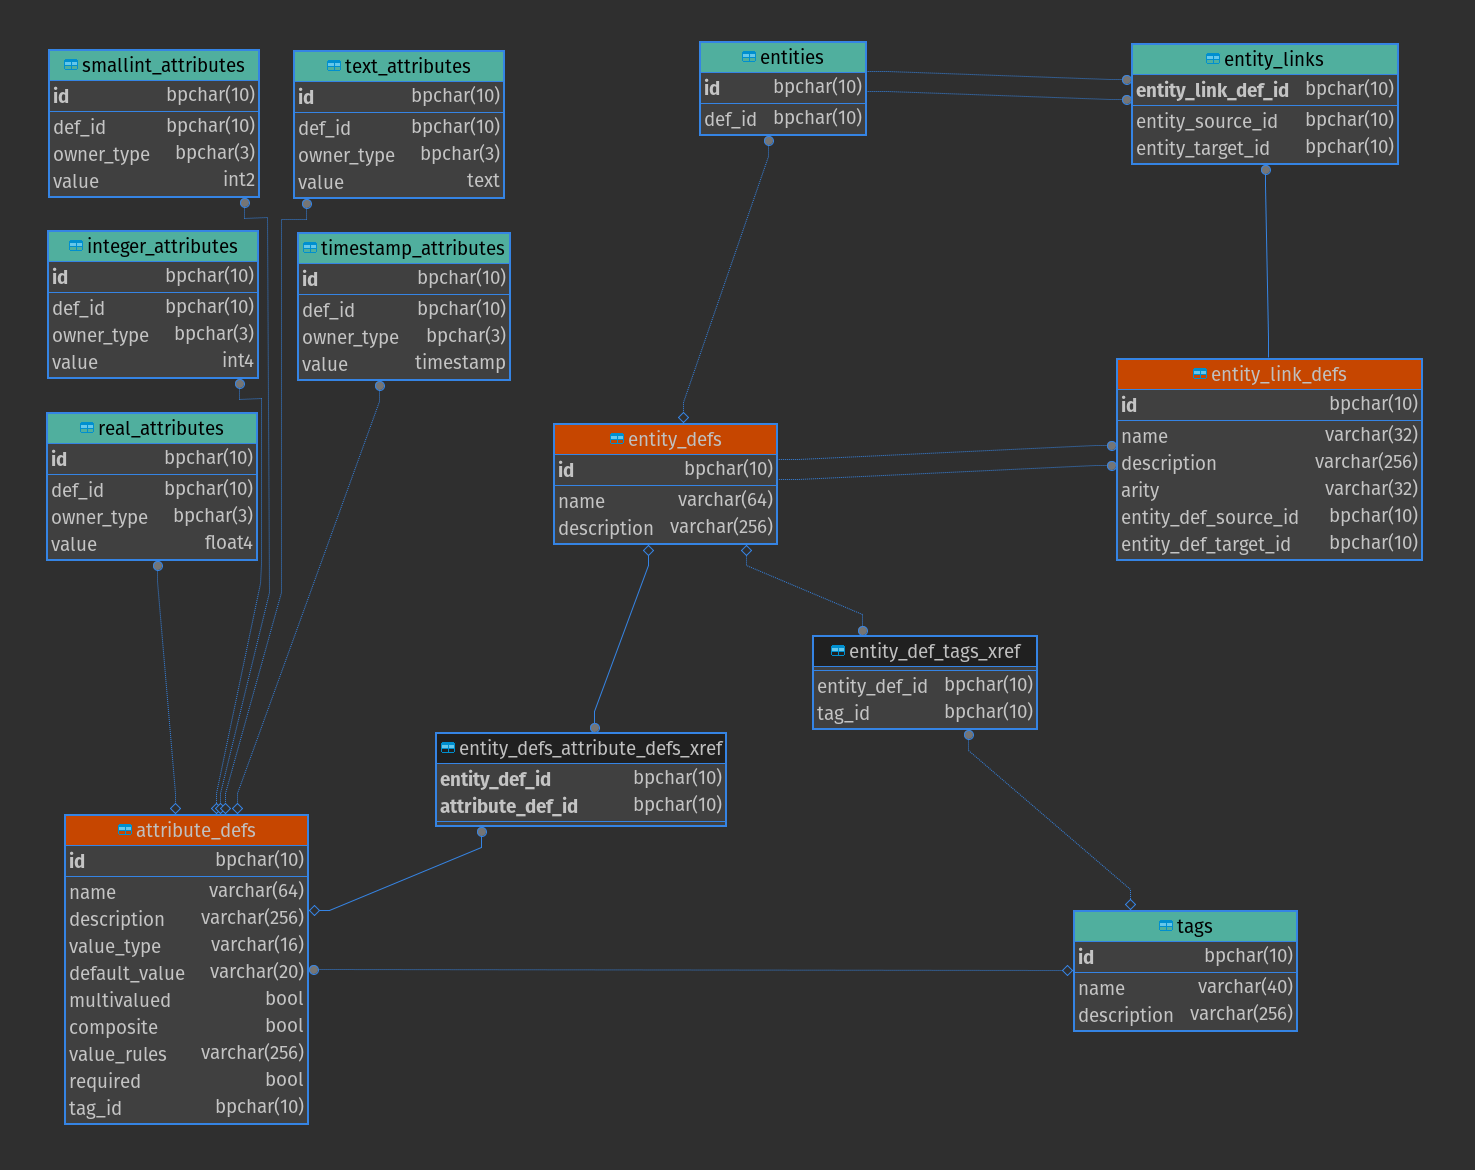
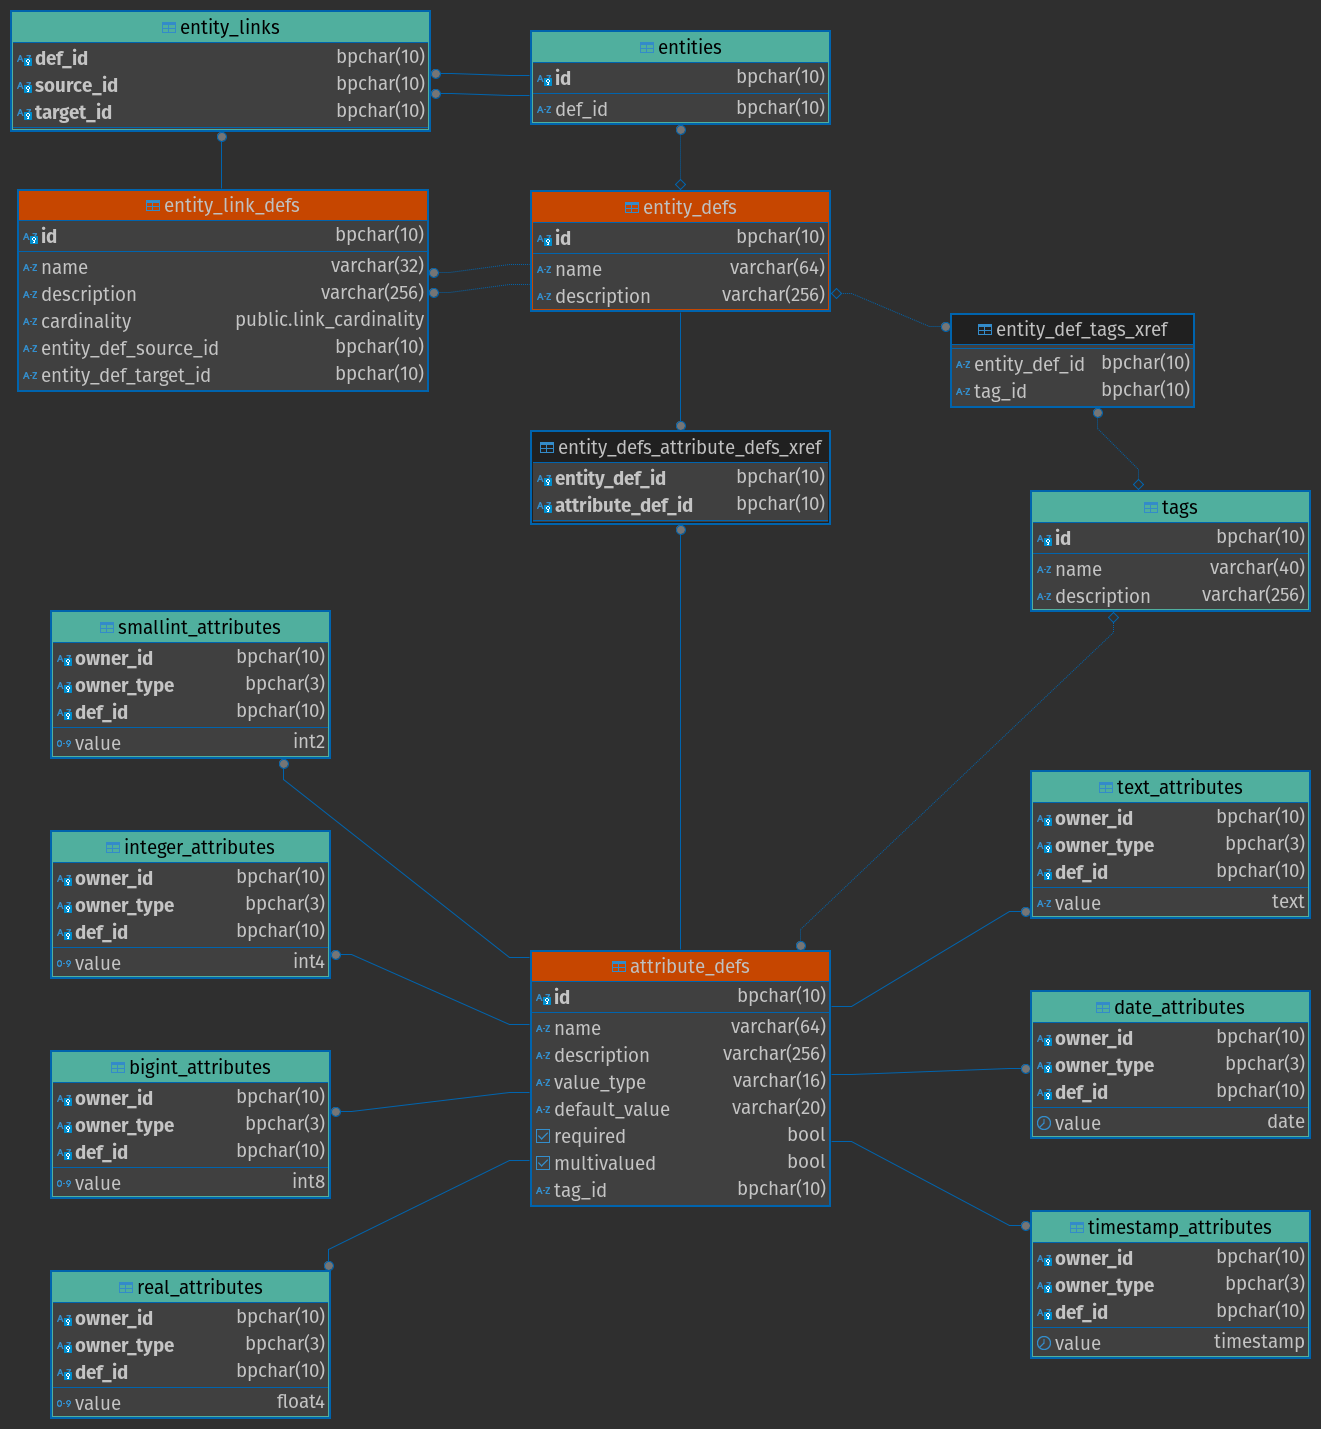
feat: update PDM (entity links attrs, attrs owner_id)

diff --git a/docs/readme.md b/docs/readme.md
@@ -1,3 +1,5 @@
-## The ERD of the physical database model
+## The ERD
+
+Here is the physical database model.
 
 ![](./db_model_erd.png)
